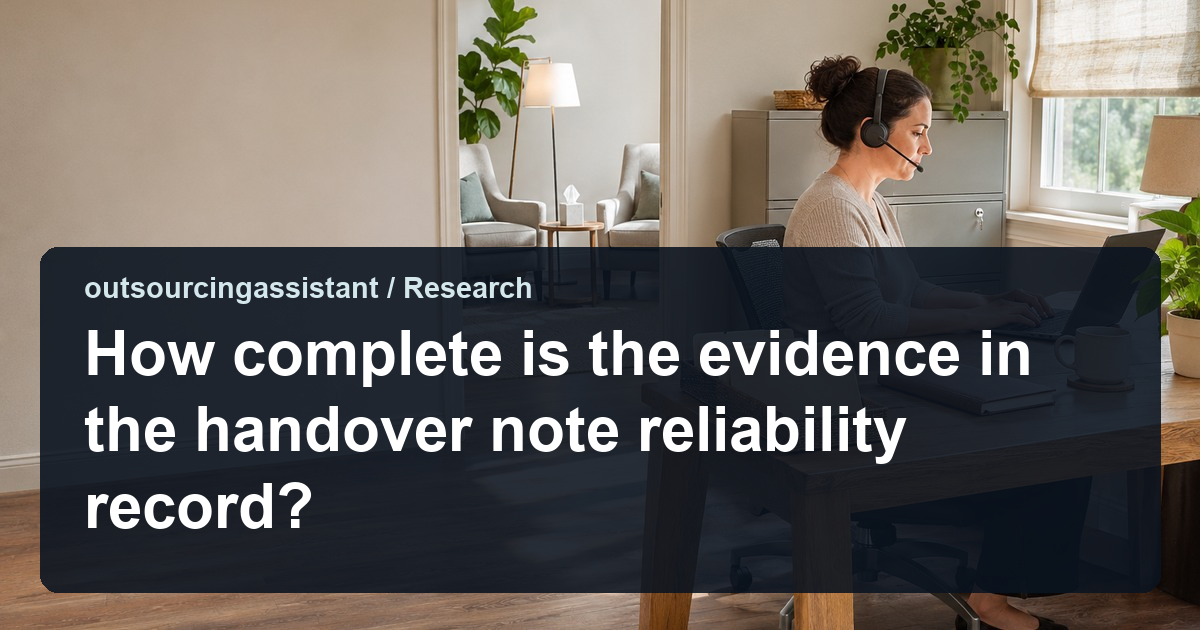
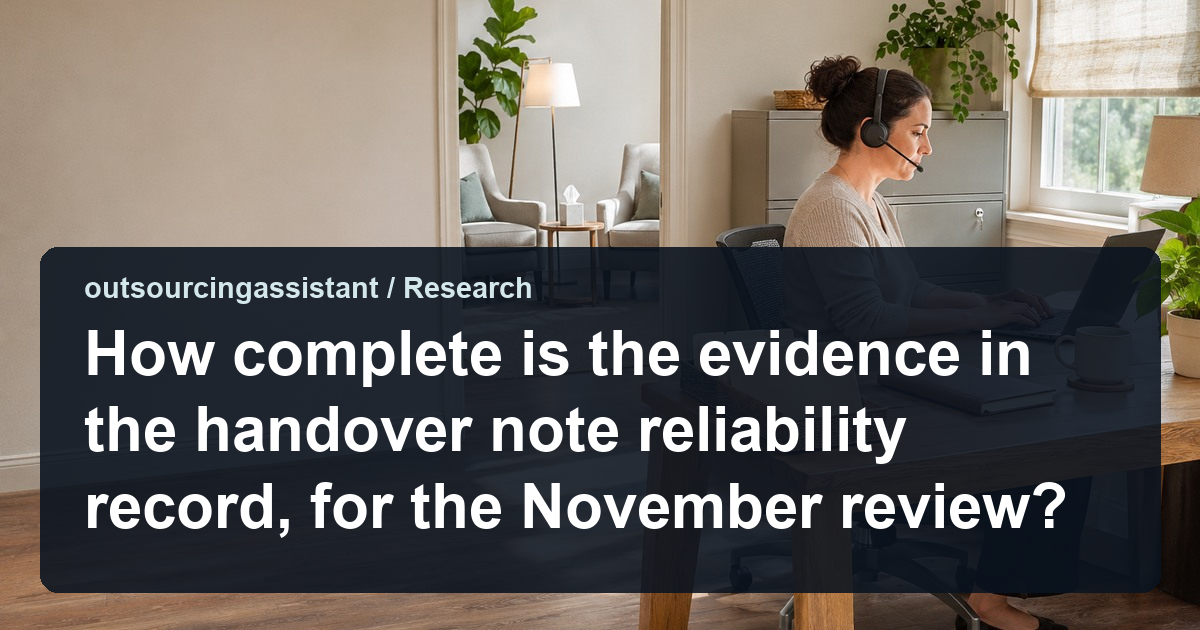
fix: align research titles with November review URLs

Changed region(s): [[0.2158, 0.754, 0.8942, 0.8444]]

diff --git a/app/nov05-research.ts b/app/nov05-research.ts
@@ -3,7 +3,7 @@ import type { ResearchPost } from './fleet-content';
 export const nov05ResearchBatch: ResearchPost[] = [
   {
     "slug": "outsourcingassistant-how-complete-is-the-evidence-in-the-task-brief-completeness-record-for-the-november-review",
-    "title": "How complete is the evidence in the task brief completeness record?",
+    "title": "How complete is the evidence in the task brief completeness record, for the November review?",
     "excerpt": "A repeatable measurement protocol for task brief completeness in outsourced assistant operations, with definitions, sampling, limits, and reporting. November 4 edition.",
     "published": "2026-11-05",
     "updated": "2026-11-05",
@@ -235,7 +235,7 @@ export const nov05ResearchBatch: ResearchPost[] = [
   },
   {
     "slug": "outsourcingassistant-how-complete-is-the-evidence-in-the-handover-note-reliability-record-for-the-november-review",
-    "title": "How complete is the evidence in the handover note reliability record?",
+    "title": "How complete is the evidence in the handover note reliability record, for the November review?",
     "excerpt": "A repeatable measurement protocol for handover note reliability in outsourced assistant operations, with definitions, sampling, limits, and reporting. November 4 edition.",
     "published": "2026-11-05",
     "updated": "2026-11-05",
@@ -467,7 +467,7 @@ export const nov05ResearchBatch: ResearchPost[] = [
   },
   {
     "slug": "outsourcingassistant-how-complete-is-the-evidence-in-the-access-review-coverage-record-for-the-november-review",
-    "title": "How complete is the evidence in the access review coverage record?",
+    "title": "How complete is the evidence in the access review coverage record, for the November review?",
     "excerpt": "A repeatable measurement protocol for access review coverage in outsourced assistant operations, with definitions, sampling, limits, and reporting. November 4 edition.",
     "published": "2026-11-05",
     "updated": "2026-11-05",
@@ -699,7 +699,7 @@ export const nov05ResearchBatch: ResearchPost[] = [
   },
   {
     "slug": "outsourcingassistant-how-complete-is-the-evidence-in-the-quality-sample-signal-record-for-the-november-review",
-    "title": "How complete is the evidence in the quality sample signal record?",
+    "title": "How complete is the evidence in the quality sample signal record, for the November review?",
     "excerpt": "A repeatable measurement protocol for quality sample signal in outsourced assistant operations, with definitions, sampling, limits, and reporting. November 4 edition.",
     "published": "2026-11-05",
     "updated": "2026-11-05",
@@ -931,7 +931,7 @@ export const nov05ResearchBatch: ResearchPost[] = [
   },
   {
     "slug": "outsourcingassistant-how-complete-is-the-evidence-in-the-coverage-continuity-record-for-the-november-review",
-    "title": "How complete is the evidence in the coverage continuity record?",
+    "title": "How complete is the evidence in the coverage continuity record, for the November review?",
     "excerpt": "A repeatable measurement protocol for coverage continuity in outsourced assistant operations, with definitions, sampling, limits, and reporting. November 4 edition.",
     "published": "2026-11-05",
     "updated": "2026-11-05",
@@ -1163,7 +1163,7 @@ export const nov05ResearchBatch: ResearchPost[] = [
   },
   {
     "slug": "outsourcingassistant-how-complete-is-the-evidence-in-the-report-reproducibility-record-for-the-november-review",
-    "title": "How complete is the evidence in the report reproducibility record?",
+    "title": "How complete is the evidence in the report reproducibility record, for the November review?",
     "excerpt": "A repeatable measurement protocol for report reproducibility in outsourced assistant operations, with definitions, sampling, limits, and reporting. November 4 edition.",
     "published": "2026-11-05",
     "updated": "2026-11-05",
@@ -1395,7 +1395,7 @@ export const nov05ResearchBatch: ResearchPost[] = [
   },
   {
     "slug": "outsourcingassistant-how-complete-is-the-evidence-in-the-reversible-exception-record-record-for-the-november-review",
-    "title": "How complete is the evidence in the reversible exception record record?",
+    "title": "How complete is the evidence in the reversible exception record record, for the November review?",
     "excerpt": "A repeatable measurement protocol for reversible exception record in outsourced assistant operations, with definitions, sampling, limits, and reporting. November 4 edition.",
     "published": "2026-11-05",
     "updated": "2026-11-05",
